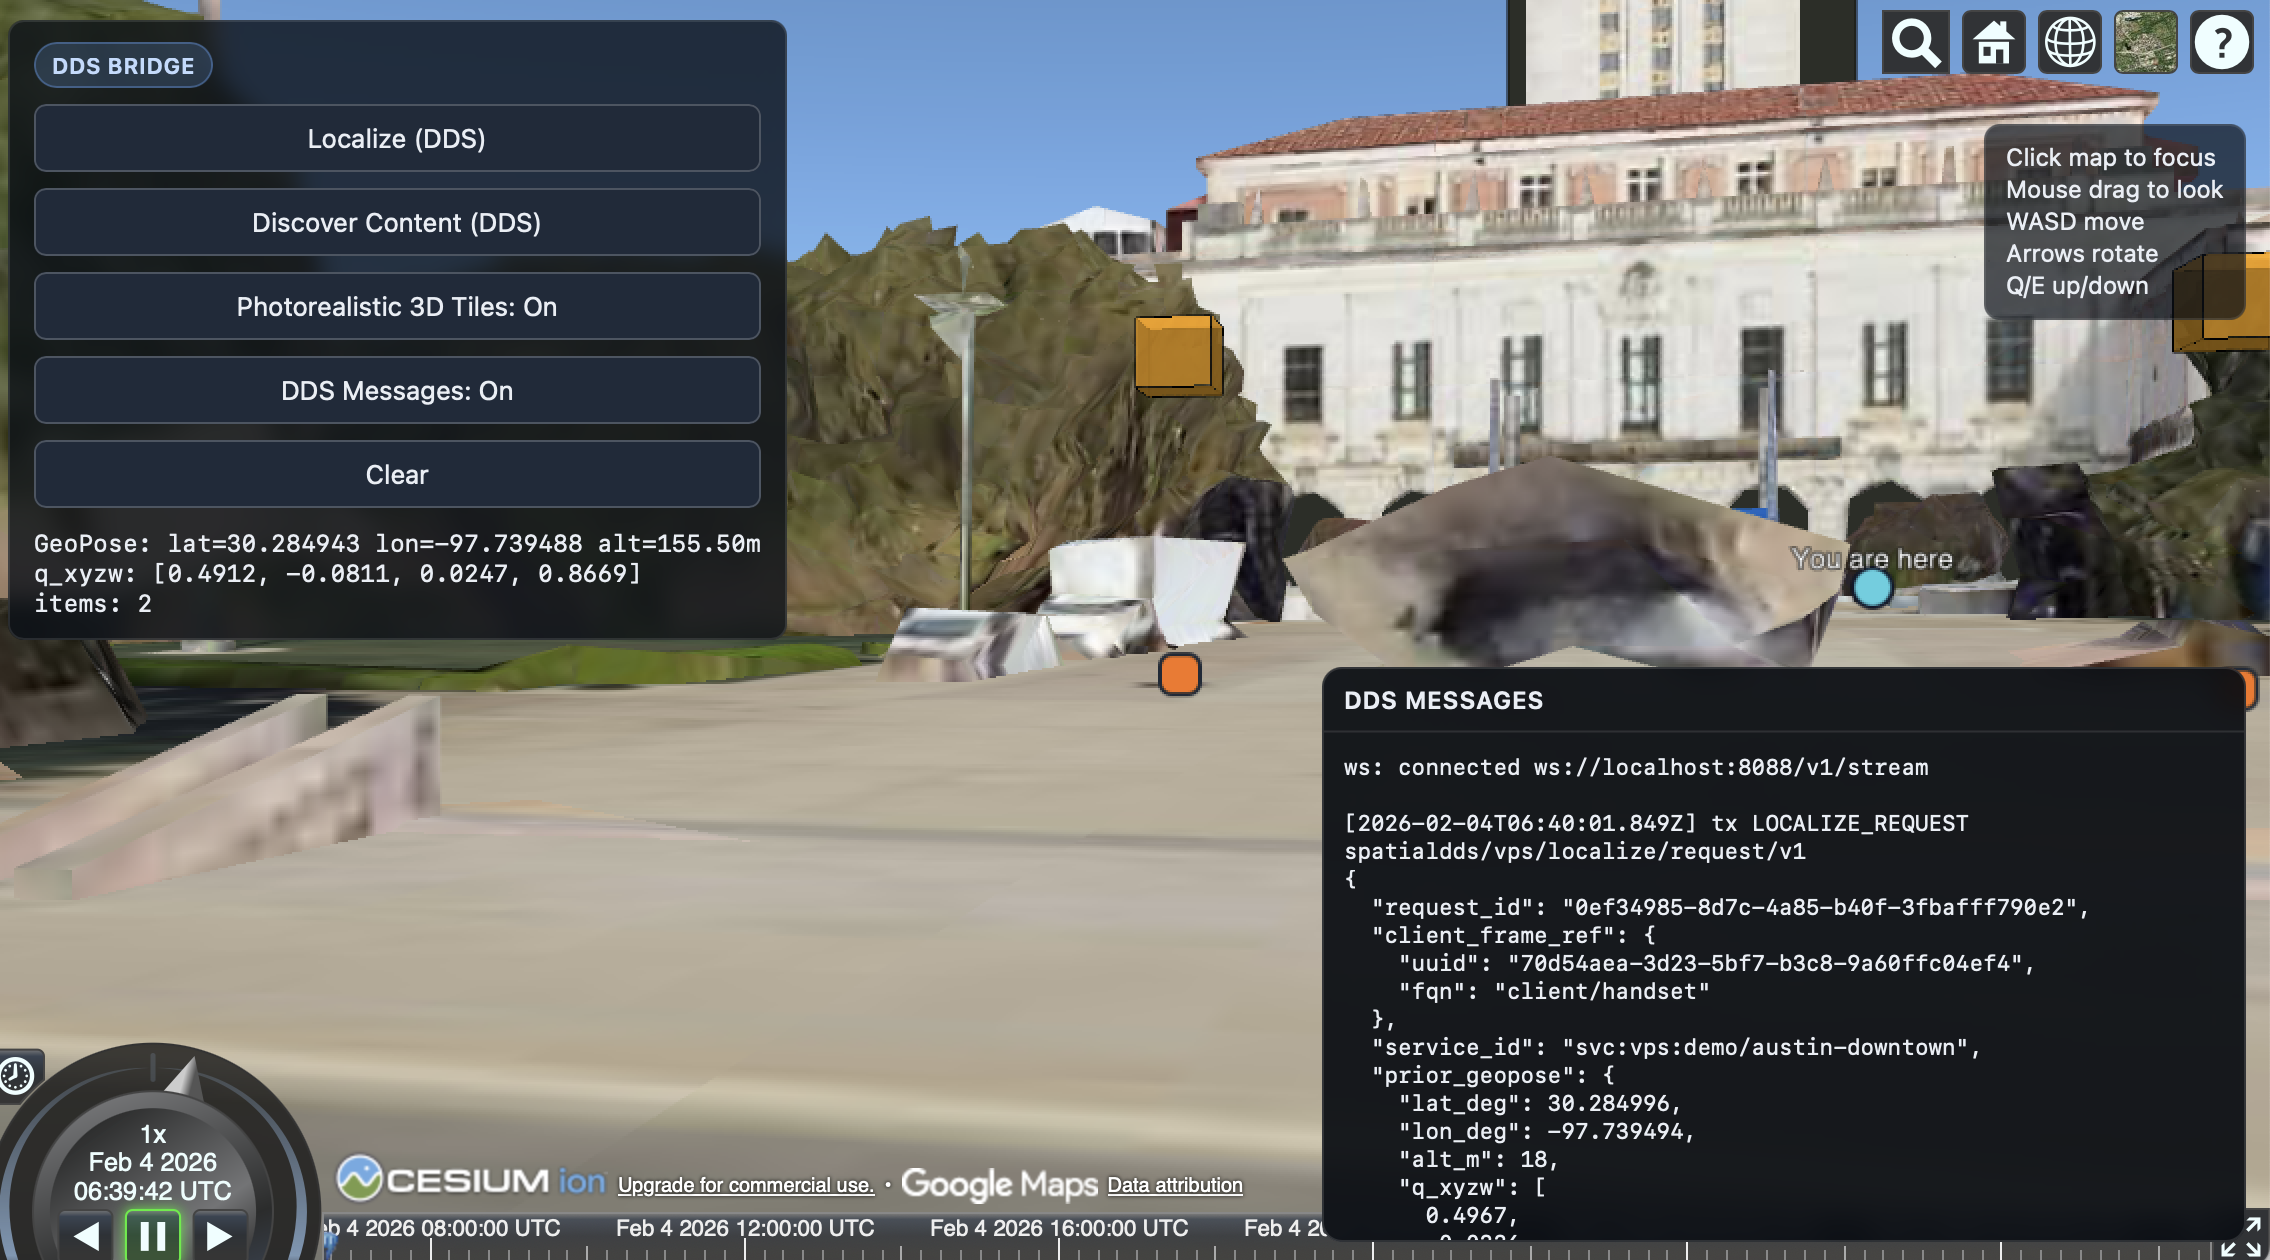
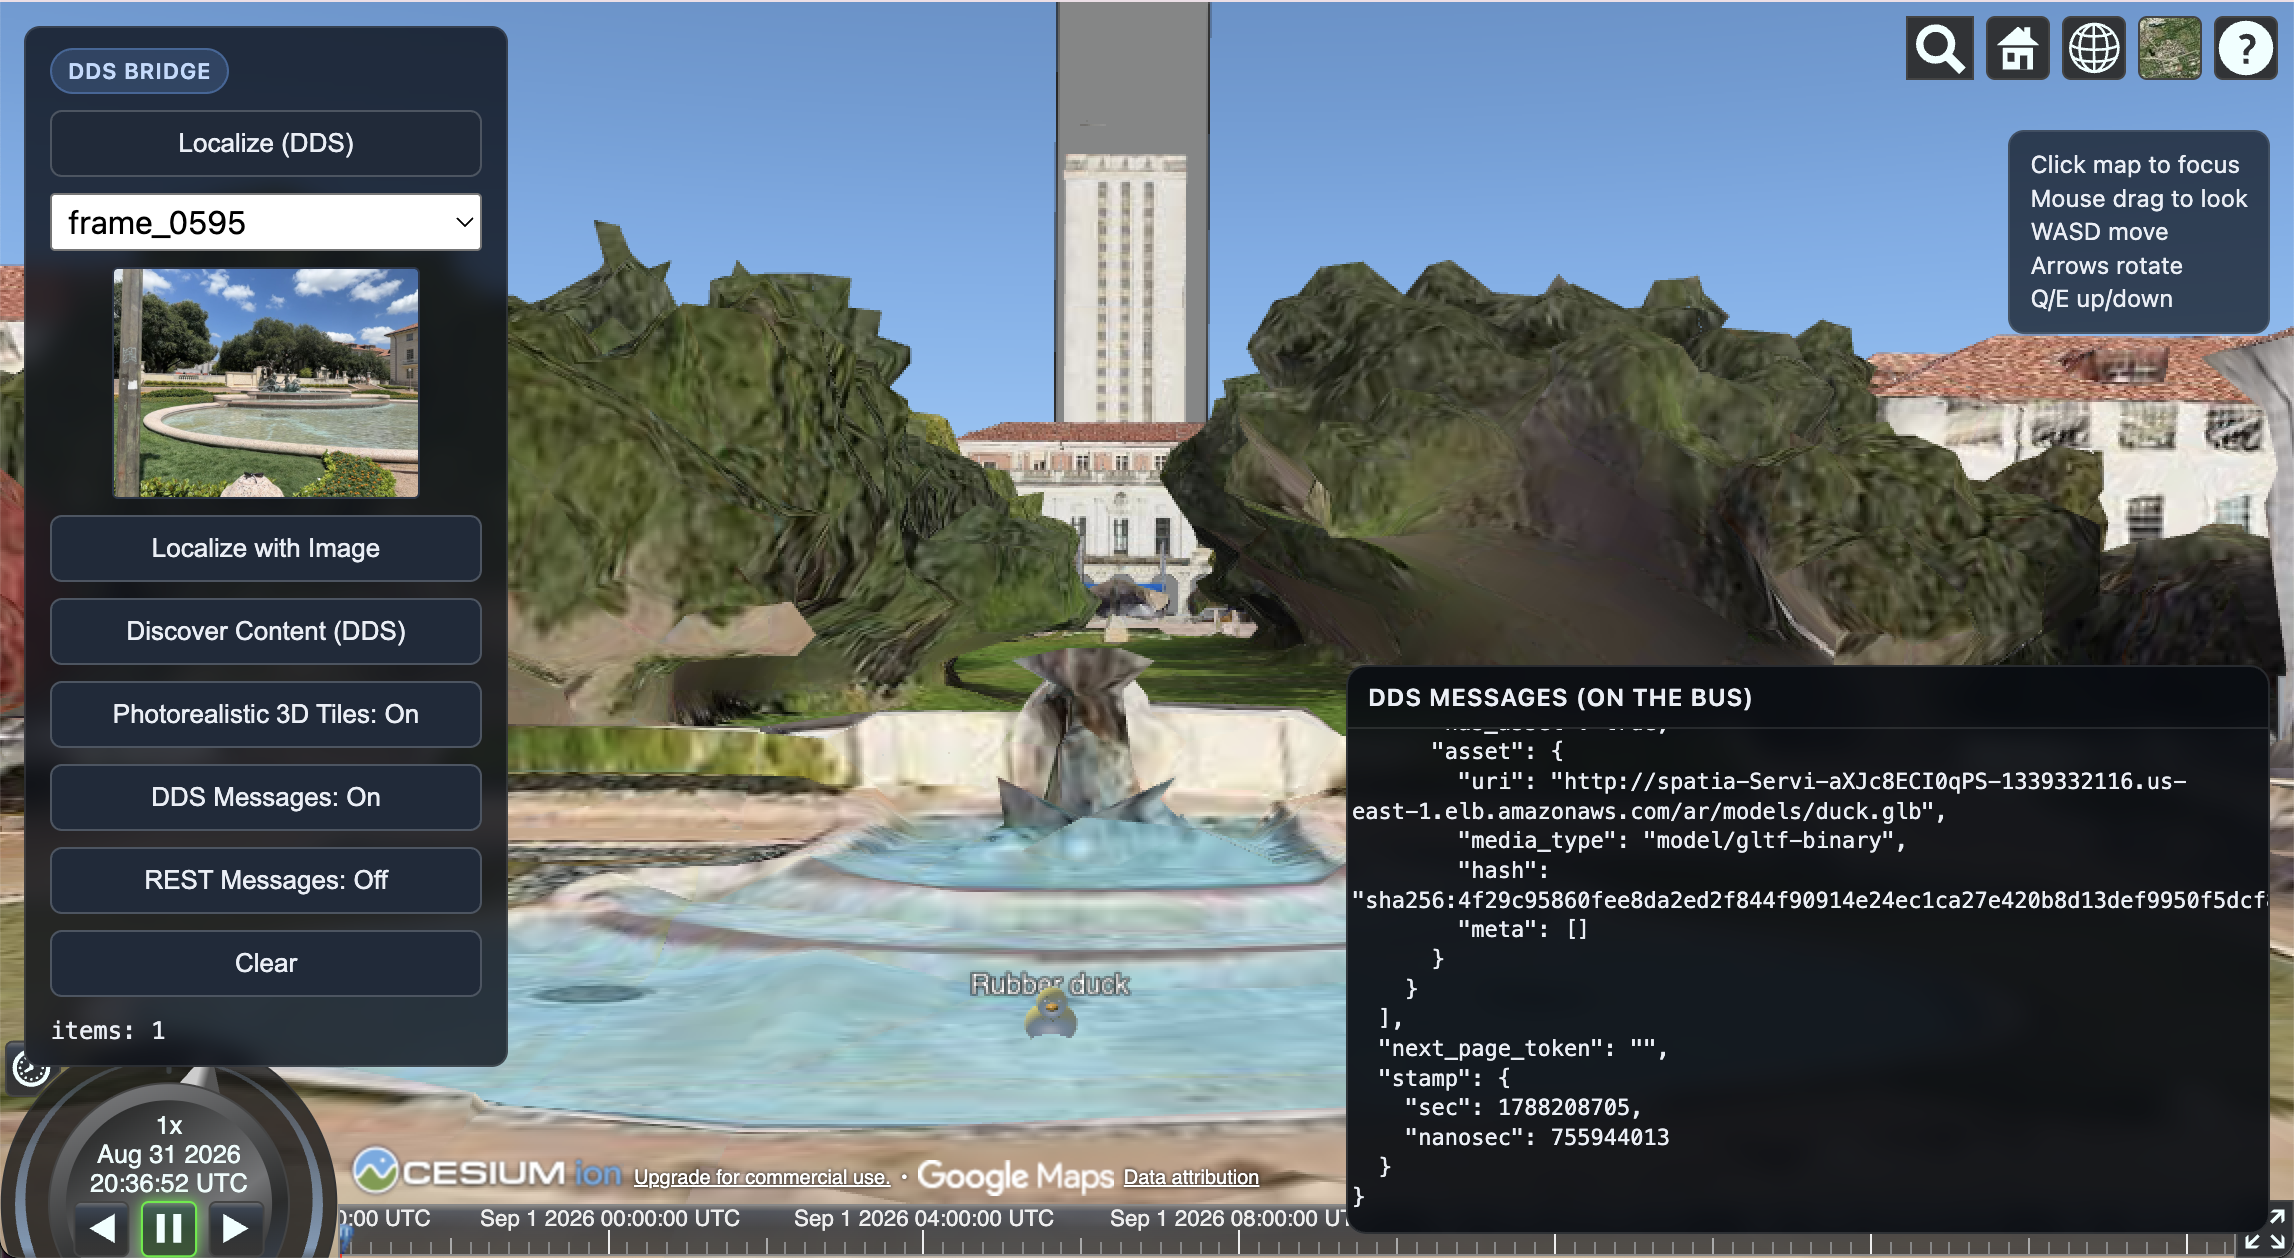
AR demo README: document /v1/frames, refresh the screenshot
The REST surface had gone stale in two places. The prose named four routes as
"the whole REST surface the UI uses" and the sequence diagram's content
exchange ended at items[], so both described a catalogue that returns content
with no way to position it. /v1/frames is now in the list and in the diagram,
with a paragraph on why it exists: a row places content as a pose inside a
frame it names, which means nothing to a client that has never heard of that
frame, and the transforms that resolve it ride in announces the bridge already
caches.

The screenshot was from February and showed a panel roughly twice its current
width, a pose readout that no longer exists, and no content at all. The new one
is the fountain with the duck on the water and the catalogue's AssetRef visible
on the bus. Both READMEs point at this one file.

diff --git a/ar_demo/README.md b/ar_demo/README.md
@@ -53,19 +53,30 @@ sequenceDiagram
     Note over UI,Cat: REST — content
     UI->>Bridge: POST /v1/catalog/query
     Bridge->>Bus: CatalogQuery — spatialdds/catalog/query/v1
-    Cat-->>Bus: CatalogResponse
+    Cat-->>Bus: CatalogResponse — a row may carry a pose and an AssetRef
     Bridge-->>UI: items[]
+    Note over UI,Bridge: A pose is placeable only if its frame resolves
+    UI->>Bridge: GET /v1/frames — only when a row carries a pose
+    Bridge-->>UI: Transform per frame, local ENU into earth-fixed,<br/>read from the transforms in cached announces
 
     Note over UI,Bridge: WebSocket — observability
     UI->>Bridge: WS /ws, subscribe to topic patterns
     Bridge-->>UI: every matching sample seen on the bus
 ```
 
-`/health`, `/.well-known/spatialdds/search`, `/v1/localize` and
-`/v1/catalog/query` are the whole REST surface the UI uses; `/ws` carries the
-DDS message window. Each REST route is a hand-written translation, which is why
-the bridge exposes four of them rather than the whole type registry — the
-WebSocket needs no such translation and carries anything on the bus.
+`/health`, `/.well-known/spatialdds/search`, `/v1/localize`,
+`/v1/catalog/query` and `/v1/frames` are the whole REST surface the UI uses;
+`/ws` carries the DDS message window. Each REST route is a hand-written
+translation, which is why the bridge exposes five of them rather than the whole
+type registry — the WebSocket needs no such translation and carries anything on
+the bus.
+
+`/v1/frames` is the newest and the least obvious. A catalogue row says where
+content sits as a pose inside a frame it names, which means nothing to a client
+that has never heard of that frame. Services announce the transform out of
+their local frame in `Announce.transforms`, and this route serves the union of
+those — so a frame stops resolving exactly when its service's announce expires,
+and no new topic or reader is involved.
 
 ### Headless client → bus
 
